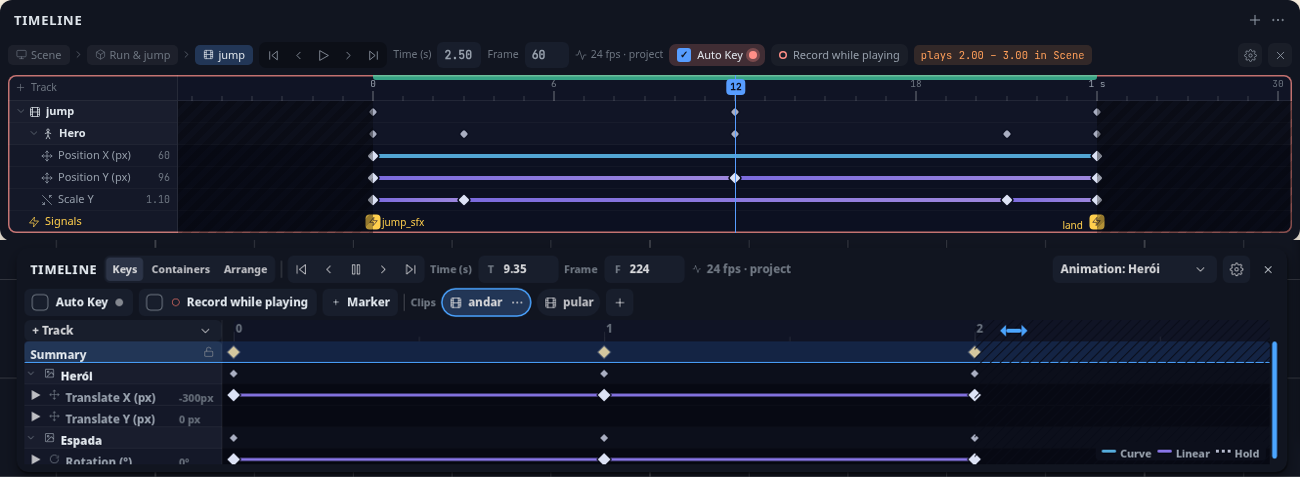
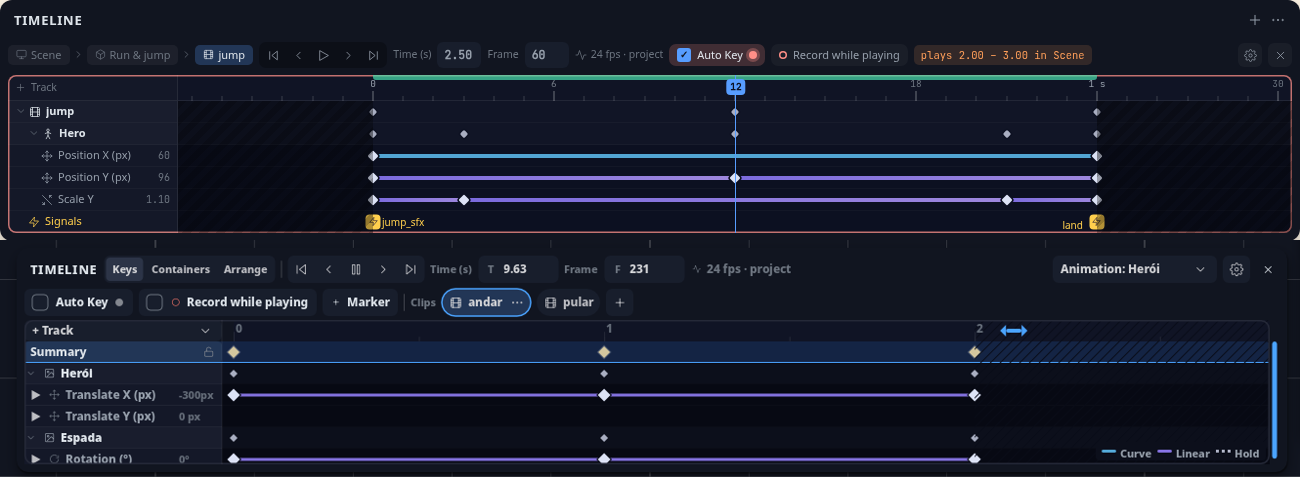
feat(timeline): onda 2h — texto da coluna centrado pelo meio das maiúsculas; moldura da área das trilhas como na maquete
- linhas::y_do_texto -> folga_do_texto (cartões) para Summary, objeto, grupo, propriedade e valor;
  gate o_texto_da_coluna_fica_no_meio_da_linha (<= 1 px, mutação sangra)
- linhas::moldura: régua + coluna + fita, antes da barra de rolagem, CARD_RADIUS, TIMELINE_FRAME_PX 1,5;
  TimelineTinta::Moldura em repouso, Gravando com o Auto Key; gate a_moldura_da_fita_existe_e_acende_com_o_auto_key

Changed region(s): [[0.0, 0.7338, 0.1846, 0.9979]]

diff --git a/crates/ph2d-panel-timeline/src/linhas_tests.rs b/crates/ph2d-panel-timeline/src/linhas_tests.rs
@@ -468,3 +468,65 @@ fn o_summary_tem_cor_propria_nos_oito_temas() {
 /// Medido (onda 2g, cores da maquete): fundo 0,045 · texto/losango 0,249; as barras logo abaixo.
 const BARRA_SUMMARY: f64 = 0.044;
 const LEGIVEL_SUMMARY: f64 = 0.24;
+
+/// ⭐ Dono 09/11 («os nomes não estão centrados»): em toda linha da coluna (Summary, cabeçalho do
+/// objecto, grupo, propriedade e o valor), o meio das maiúsculas que o pintor desenha fica a ≤ 1 px
+/// do meio da linha — onde estão o losango, a barra, o ícone e o ▶/▾. Reconstrói a conta do pintor
+/// (`ph2d_text`: o tamanho desenhado e o meio das maiúsculas). *Mutação: a conta `(linha − letra)/2`
+/// de antes ⇒ ~2,5 px ⇒ vermelho.*
+#[test]
+fn o_texto_da_coluna_fica_no_meio_da_linha() {
+    use ph2d_tokens::TypeToken;
+    ph2d_editor_core::panel::cards::ferramenta::force_cards_on_this_thread(Some(true));
+    let y = 300.0_f32;
+    let meio = y + ROW_H_PX * 0.5;
+    let losango = meio; // `paint_lane_keys`, `paint_grupo`, `paint_objeto`: cy = y + ROW_H_PX/2
+    let icone = y + (ROW_H_PX - ICONE_PX) * 0.5 + ICONE_PX * 0.5;
+    for font in [TypeToken::Sm.px(), TypeToken::Xs.px()] {
+        let topo = y_do_texto(y, font) - (ph2d_text::displayed_font_px(font) - font) * 0.5;
+        let maiusculas = topo + ph2d_text::cap_centre_px(font);
+        for (alvo, o_que) in [(meio, "linha"), (losango, "losango"), (icone, "ícone")] {
+            assert!(
+                (maiusculas - alvo).abs() <= 1.0,
+                "letra {font}: texto a {:.2} px do meio do(a) {o_que}",
+                maiusculas - alvo
+            );
+        }
+    }
+    ph2d_editor_core::panel::cards::ferramenta::force_cards_on_this_thread(None);
+}
+
+/// ⭐ Dono 09/11 («uma outline como tem na referência»): a moldura da área das trilhas existe com o
+/// Auto Key desligado e ligado, muda de tinta com ele (neutra → vermelha) em todo tema, lê-se contra
+/// a folha, e cabe inteira na área: não invade a barra de rolagem nem passa da última linha.
+#[test]
+fn a_moldura_da_fita_existe_e_acende_com_o_auto_key() {
+    use TimelineTinta as T;
+    let g = geom::resolve(Rect::new(0.0, 0.0, 1200.0, 400.0), 60.0, 180.0, 56.0);
+    let (r0, t0) = moldura(&g, false);
+    let (r1, t1) = moldura(&g, true);
+    assert_eq!((t0, t1), (T::Moldura, T::Gravando));
+    assert_eq!(
+        r0, r1,
+        "a moldura é a mesma nos dois estados; só a tinta muda"
+    );
+    let meia = ph2d_tokens::TIMELINE_FRAME_PX * 0.5;
+    assert!(r0.w > 0.0 && r0.h > 0.0, "a moldura existe");
+    assert!(
+        r0.x + r0.w + meia <= g.scrollbar.x + 0.01,
+        "não cobre a barra de rolagem"
+    );
+    assert!(
+        r0.y + r0.h + meia <= g.rows.y + g.rows.h + 0.01,
+        "não passa da última linha"
+    );
+    assert!(r0.x - meia >= g.region.x - 0.01 && r0.y - meia >= g.region.y - 0.01);
+    let mudou = pior(&[T::Moldura], &[T::Gravando]);
+    let le_se = pior(
+        &[T::Moldura],
+        &[T::FitaPropriedade, T::NomesPropriedade, T::FitaRegua],
+    );
+    eprintln!("moldura: muda {mudou:.3} · contra a folha {le_se:.3}");
+    assert!(mudou >= 0.10, "o Auto Key muda a moldura só {mudou:.3}");
+    assert!(le_se >= 0.05, "a moldura some na folha ({le_se:.3})");
+}

diff --git a/crates/ph2d-panel-timeline/src/linhas.rs b/crates/ph2d-panel-timeline/src/linhas.rs
@@ -291,7 +291,7 @@ pub(crate) fn paint_grupo(
         ctx.scene,
         &texto,
         x + TWIRL_W,
-        y + (ROW_H_PX - font) * 0.5,
+        y_do_texto(y, font),
         font,
         (geo.label_w - TWIRL_W - Spacing::Xs.px()).max(0.0),
         if ph2d_editor_core::panel::cards::ferramenta::cards_on() {
@@ -340,6 +340,37 @@ pub(crate) fn paint_grupo(
             ),
         );
     }
+}
+
+/// ⭐ **O `y` do texto da coluna de nomes numa linha que começa em `y`** (dono 09/11: «não estão
+/// centrados»). Nos cartões, o meio das MAIÚSCULAS no meio da linha — a porta dos cartões,
+/// [`ph2d_editor_core::paint::folga_do_texto`]; a conta `(linha − letra) / 2` punha o texto ~2,5 px
+/// abaixo. No clássico, a de sempre.
+pub(crate) fn y_do_texto(y: f32, font: f32) -> f32 {
+    if ph2d_editor_core::panel::cards::ferramenta::cards_on() {
+        y + ph2d_editor_core::paint::folga_do_texto(ROW_H_PX, font)
+    } else {
+        y + (ROW_H_PX - font) * 0.5
+    }
+}
+
+/// ⭐ **A moldura da área das trilhas** (dono 09/11, maquete B1): régua + coluna de nomes + fita, até
+/// antes da barra de rolagem, recuada meia espessura para o traço caber inteiro dentro (não corta a
+/// última linha nem cobre a barra). A tinta: neutra em repouso, a vermelha com o Auto Key a gravar.
+pub(crate) fn moldura(g: &geom::Geom, auto_key: bool) -> (Rect, ph2d_tokens::TimelineTinta) {
+    let meia = ph2d_tokens::TIMELINE_FRAME_PX * 0.5;
+    let (x0, y0) = (g.region.x + meia, g.region.y + meia);
+    let x1 = g.rows.x + g.rows.w - meia;
+    let y1 = g.rows.y + g.rows.h - meia;
+    let tinta = if auto_key {
+        ph2d_tokens::TimelineTinta::Gravando
+    } else {
+        ph2d_tokens::TimelineTinta::Moldura
+    };
+    (
+        Rect::new(x0, y0, (x1 - x0).max(0.0), (y1 - y0).max(0.0)),
+        tinta,
+    )
 }
 
 /// A espessura do fio entre dois objectos.
@@ -421,7 +452,7 @@ pub(crate) fn paint_objeto(
         ctx.scene,
         &crate::tracks::objeto_snap(snap, entity),
         tx,
-        y + (ROW_H_PX - font) * 0.5,
+        y_do_texto(y, font),
         font,
         (x + geo.label_w - tx - Spacing::Xs.px()).max(0.0),
         crate::folha_tinta::tinta(ph2d_tokens::TimelineTinta::TextoCabecalho, theme),

diff --git a/crates/ph2d-panel-timeline/src/paint.rs b/crates/ph2d-panel-timeline/src/paint.rs
@@ -337,14 +337,15 @@ pub(crate) fn paint(state: &mut TimelinePanelState, ctx: &mut PaintCtx) {
     if cartoes && state.tab.shows_keys() && !snapshot.tracks.is_empty() {
         crate::legenda::paint(ctx, theme, crate::tracks::lane_rect(&g, view));
     }
-    // Auto Key a gravar acende a borda da folha (doc 15 onda 2): o aviso mora onde a chave nasce.
-    if cartoes && snapshot.auto_key {
+    // A moldura da área das trilhas (maquete B1, sempre); o Auto Key a gravar acende-a a vermelho.
+    if cartoes {
+        let (r, cor) = crate::linhas::moldura(&g, snapshot.auto_key);
         ph2d_editor_core::paint::stroke_rounded_rect(
             ctx.scene,
-            g.region,
-            ph2d_tokens::Radius::Xs.px(),
-            ph2d_editor_core::panel::cards::banda::metrics::FIELD_BORDER * 2.0,
-            crate::folha_tinta::tinta(ph2d_tokens::TimelineTinta::Gravando, theme),
+            r,
+            ph2d_editor_core::panel::cards::banda::metrics::CARD_RADIUS,
+            ph2d_tokens::TIMELINE_FRAME_PX,
+            crate::folha_tinta::tinta(cor, theme),
         );
     }
     // The label/time splitter sits over the lanes AND the ruler, so it is

diff --git a/crates/ph2d-tokens/src/lib.rs b/crates/ph2d-tokens/src/lib.rs
@@ -101,10 +101,10 @@ pub use chrome::{
     CHECKBOX_BOX_PX, DIVIDER_GAP_PX, DRAG_GHOST_ALPHA, DRAG_GHOST_SCALE, EDGE_PAD_PX,
     HERO_VIEWPORT_H_PX, HERO_VIEWPORT_W_PX, HIERARCHY_W_PX, HUD_BOTTOM_PAD_PX, HUD_H_PX,
     INSPECTOR_W_PX, PANEL_HEAD_PAD_PX, PANEL_MIN_W_PX, PANEL_RADIUS_PX,
-    PANEL_RESIZE_HANDLE_SIZE_PX, PILL_PADDING_PX, ROW_SELECTED_ALPHA, TIMELINE_KEY_HALF_PX,
-    TIMELINE_KEY_HIT_HALF_PX, TIMELINE_KEY_RING_PX, TIMELINE_OBJECT_DOT_HALF_PX,
-    TIMELINE_SUMMARY_CELL_ALPHA, TIMELINE_SUMMARY_TINT_ALPHA, TOOL_CHIP_PX, TOPBAR_GAP_PX,
-    TOPBAR_H_PX,
+    PANEL_RESIZE_HANDLE_SIZE_PX, PILL_PADDING_PX, ROW_SELECTED_ALPHA, TIMELINE_FRAME_PX,
+    TIMELINE_KEY_HALF_PX, TIMELINE_KEY_HIT_HALF_PX, TIMELINE_KEY_RING_PX,
+    TIMELINE_OBJECT_DOT_HALF_PX, TIMELINE_SUMMARY_CELL_ALPHA, TIMELINE_SUMMARY_TINT_ALPHA,
+    TOOL_CHIP_PX, TOPBAR_GAP_PX, TOPBAR_H_PX,
 };
 pub use color::{Color, ColorToken, ColorValue, faint_row_bg};
 /// ⭐ A aritmética de cor saiu para um irmão (tecto de LOC), e o endereço público não muda.

diff --git a/crates/ph2d-panel-timeline/src/tracks_value.rs b/crates/ph2d-panel-timeline/src/tracks_value.rs
@@ -23,7 +23,7 @@ use ph2d_editor_core::panel::PaintCtx;
 use ph2d_editor_core::project::ProjectSettings;
 use ph2d_editor_core::{DisplayAngle, LengthDisplay};
 use ph2d_timeline::{PropKind, TimelineViewSnapshot, TrackView};
-use ph2d_tokens::{ColorToken, ROW_H_PX, Spacing, Theme, TypeToken};
+use ph2d_tokens::{ColorToken, Spacing, Theme, TypeToken};
 
 /// A fatia reservada ao número, no fim da coluna de nomes.
 ///
@@ -230,7 +230,7 @@ pub(crate) fn paint_name_and_value(
         ctx.scene,
         texto,
         label_x,
-        y + (ROW_H_PX - font) * 0.5,
+        crate::linhas::y_do_texto(y, font),
         font,
         name_w,
         cor,
@@ -245,7 +245,7 @@ pub(crate) fn paint_name_and_value(
         ctx.scene,
         &valor,
         right - VALUE_W - Spacing::Xs.px(),
-        y + (ROW_H_PX - font) * 0.5,
+        crate::linhas::y_do_texto(y, font),
         font,
         VALUE_W,
         // ⚠ `Text3` de propósito: o nome é que identifica a row, e um número em `Text1` ao lado

diff --git a/crates/ph2d-tokens/src/chrome.rs b/crates/ph2d-tokens/src/chrome.rs
@@ -104,6 +104,9 @@ pub const TIMELINE_KEY_RING_PX: f32 = 1.5; // LITERAL-PX-OK: contorno do losango
 /// O alvo de clique da chave: o losango com o contorno inteiro (6,5 + 1,5) e o encaixe ao splitter
 /// (`TIME_GUTTER` 12 − 8 = o `SPLIT_GRIP` de 4).
 pub const TIMELINE_KEY_HIT_HALF_PX: f32 = 8.0; // LITERAL-PX-OK: meia-largura do alvo da chave
+/// **A moldura da área das trilhas** (dono 09/11: «uma outline como tem na referência»): maquete B1
+/// medida, um pixel cheio e meio antialiasado, raio do cartão.
+pub const TIMELINE_FRAME_PX: f32 = 1.5; // LITERAL-PX-OK: espessura da moldura medida na maquete
 /// O ponto do cabeçalho do objecto (maquete: ~7 px).
 pub const TIMELINE_OBJECT_DOT_HALF_PX: f32 = 4.0; // LITERAL-PX-OK: meia-diagonal do ponto do objecto
 

diff --git a/crates/ph2d-tokens/src/timeline_tinta.rs b/crates/ph2d-tokens/src/timeline_tinta.rs
@@ -63,6 +63,8 @@ pub enum TimelineTinta {
     Cursor,
     /// A borda da folha com o Auto Key a gravar.
     Gravando,
+    /// A moldura da área das trilhas em repouso: o traço da régua da maquete, neutro e sutil.
+    Moldura,
 }
 
 impl TimelineTinta {
@@ -90,6 +92,7 @@ impl TimelineTinta {
             Self::SummaryFita => (T::KanbanList, [20, 36, 68]),
             Self::Listra => (T::KanbanList, [9, 12, 24]),
             Self::Gravando => (T::KanbanList, [196, 116, 114]),
+            Self::Moldura => (T::KanbanList, [37, 41, 56]),
         }
     }
 

diff --git a/crates/ph2d-panel-timeline/src/summary_paint.rs b/crates/ph2d-panel-timeline/src/summary_paint.rs
@@ -112,7 +112,7 @@ pub(crate) fn paint(
         ctx.scene,
         ph2d_i18n::tr("panel.timeline.summary"),
         region.x + Spacing::Sm.px(),
-        y + (ROW_H_PX - font) * 0.5,
+        crate::linhas::y_do_texto(y, font),
         font,
         label_budget,
         if ph2d_editor_core::panel::cards::ferramenta::cards_on() {

diff --git a/docs/Timeline/handoffs/HANDOFF_CONTINUACAO_TimelinePrincipal_2026-11-09_ONDA2.md b/docs/Timeline/handoffs/HANDOFF_CONTINUACAO_TimelinePrincipal_2026-11-09_ONDA2.md
@@ -91,6 +91,8 @@ Testes por nome desta rodada: `linhas` 16 ✓ · `tracks_value` 6 ✓ · `scroll
 
 - **2g (dono 09/11, «todas as cores da maquete»):** `ph2d-tokens/src/timeline_tinta.rs` (novo; `color.rs` está em 700/700): `TimelineTinta` = base da paleta do cartão + desvio OKLab amostrado na maquete (moda de bloco, captura headless); no tema de referência (Forge, paleta igual à da maquete, e todo tema escuro) é a amostra ao bit; nos claros o degrau de claridade inverte de sentido (sem saturar no branco). Painel por `folha_tinta::tinta`: fita/coluna sem zebra com fio, cabeçalho, régua, textos (objeto · propriedade · valor), chaves, pontos, barras (ciano/violeta/segura em `Ponto`), listra, cursor, borda do Auto Key, chip escolhido, Summary (forma C no azul do chip «jump»). Distância maquete×nossa (OKLab), antes→depois: valor 0,339→0 · fita do cabeçalho 0,219→0 · texto da propriedade 0,169→0 · coluna do cabeçalho 0,156→0 · violeta 0,142→0 · listra 0,088→0,002 · régua 0,086→0 · chip 0,061→0 · fita 0,054→0 · chave/ponto/texto do objeto ~0,05→0. Gates: barras ≥ 0,10 (medido 0,107), cabeçalho×propriedade ≥ 0,014 (a maquete mede 0,015), Summary fundo ≥ 0,044 (0,045) · legível ≥ 0,24 (0,249). Sem equivalente no app: a faixa verde do clipe e a linha Signals. `no_magic_numeric`: 3 literais de conta marcados (`geom.rs`, `legenda.rs`).
 
+- **2h (dono 09/11, centro vertical + moldura):** todo texto da coluna (Summary, objecto, grupo, propriedade, valor) passa por `linhas::y_do_texto` → `ph2d_editor_core::paint::folga_do_texto` (meio das maiúsculas; a conta `(linha − letra)/2` punha-o ~2,5 px abaixo); ícones e ▶/▾ já eram geométricos. Gate `o_texto_da_coluna_fica_no_meio_da_linha` (≤ 1 px de linha, losango e ícone, letras Sm e Xs; mutação sangra). A última linha parcial é a lista a rolar, cortada pela área das trilhas, não pela borda do painel. Moldura sempre presente (`linhas::moldura`): régua + coluna + fita até antes da barra de rolagem, recuada meia espessura, raio `CARD_RADIUS` 8 e `TIMELINE_FRAME_PX` 1,5 (maquete medida), tinta `TimelineTinta::Moldura` (traço da régua da maquete) → `Gravando` com o Auto Key; gate `a_moldura_da_fita_existe_e_acende_com_o_auto_key` (muda 0,378; contra a folha 0,071). Zoom: [`15_onda2_nomes_zoom.png`](../fotos/15_onda2_nomes_zoom.png).
+
 ## Superfície de colisão
 
 `ph2d-panel-timeline`: `linhas.rs`, `tracks.rs`, `tracks_label.rs`, `tracks_value.rs`, `paint.rs`, `ruler.rs`, `state.rs`,
